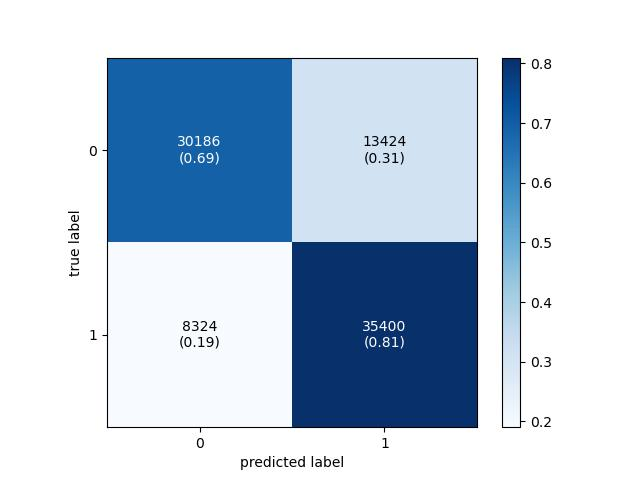
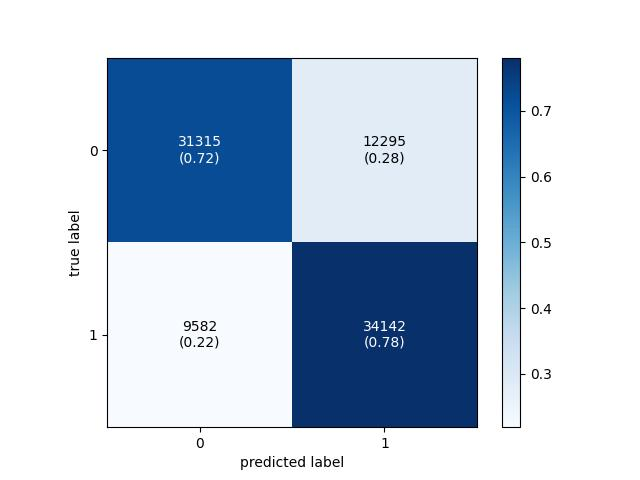
feat: re-compile all model

diff --git a/main.py b/main.py
@@ -77,20 +77,20 @@ stroke_ann_model = ANN_Model(stroke_name, stroke_result, stroke_categorical, str
 stroke_model = Model(stroke_name, stroke_result, stroke_categorical, stroke_drop_list)
 
 stroke_features = [
-'gender','age','hypertension','heart_disease','ever_married','work_type','residence_type','avg_glucose_level','bmi','smoking_status','stroke']
+'gender','age','hypertension','heart_disease','ever_married','work_type','residence_type','avg_glucose_level','bmi','smoking_status']
 
 # Create a Mental Model
 mental_name  = 'mental'
 mental_categorical = [
-    CategoricalMapping({'Male': 0, 'Female': 1}, 'Gender'),
-    CategoricalMapping({'0': 0, '100-500': 1, '26-100': 2, '500-1000': 3,'More than 1000': 4}, 'no_employees'),
+    CategoricalMapping({'Male': 0, 'Female': 1}, 'Gender')
+    # CategoricalMapping({'0': 0, '100-500': 1, '26-100': 2, '500-1000': 3,'More than 1000': 4}, 'no_employees'),
 ]
-menta_drop_list = ['Timestamp', 'Country' , 'state']
+mental_drop_list = ['Timestamp', 'Country' , 'state', 'no_employees']
 mental_result = 'treatment'
-mental_ann_model = ANN_Model(mental_name, mental_result, mental_categorical , menta_drop_list)
-mental_model = Model(mental_name, mental_result, mental_categorical , menta_drop_list)
+mental_ann_model = ANN_Model(mental_name, mental_result, mental_categorical , mental_drop_list)
+mental_model = Model(mental_name, mental_result, mental_categorical , mental_drop_list)
 
-mental_features = ['Age','Gender','self_employed','family_history','treatment','work_interfere','no_employees','remote_work','tech_company','benefits','care_options','wellness_program','seek_help','anonymity','leave','mental_health_consequence','phys_health_consequence','coworkers','supervisor','mental_health_interview','phys_health_interview','mental_vs_physical','obs_consequence']
+mental_features = ['Age','Gender','self_employed','family_history','work_interfere','remote_work','tech_company','benefits','care_options','wellness_program','seek_help','anonymity','leave','mental_health_consequence','phys_health_consequence','coworkers','supervisor','mental_health_interview','phys_health_interview','mental_vs_physical','obs_consequence']
 
 # Create a Heart Model
 cardio_name = 'cardio'
